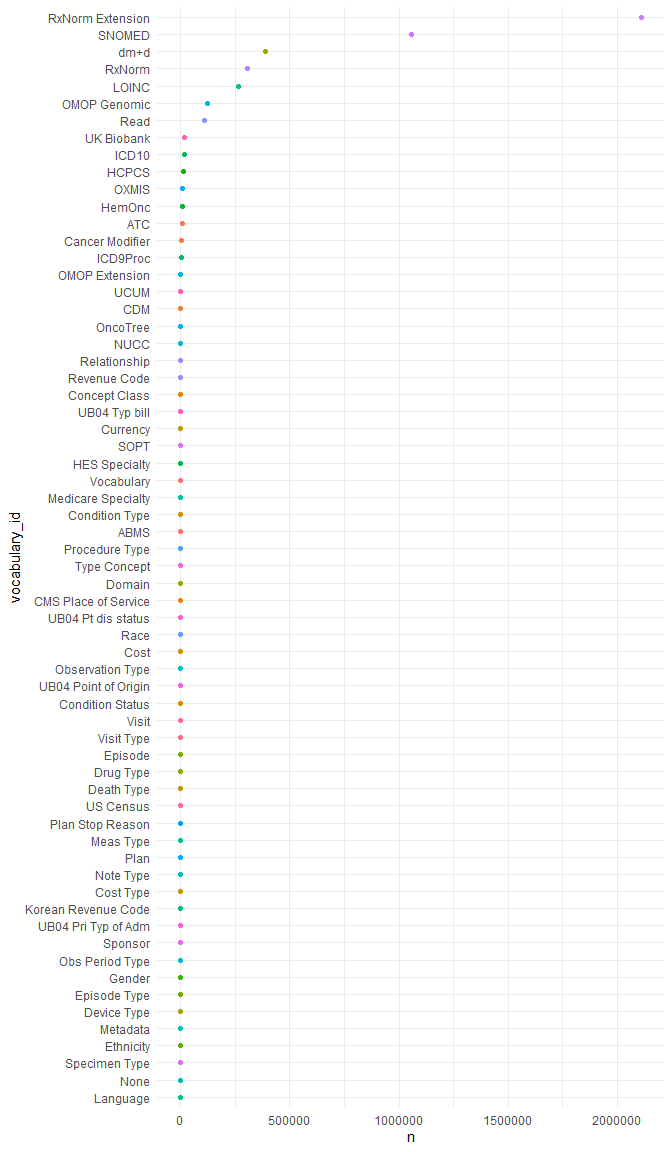
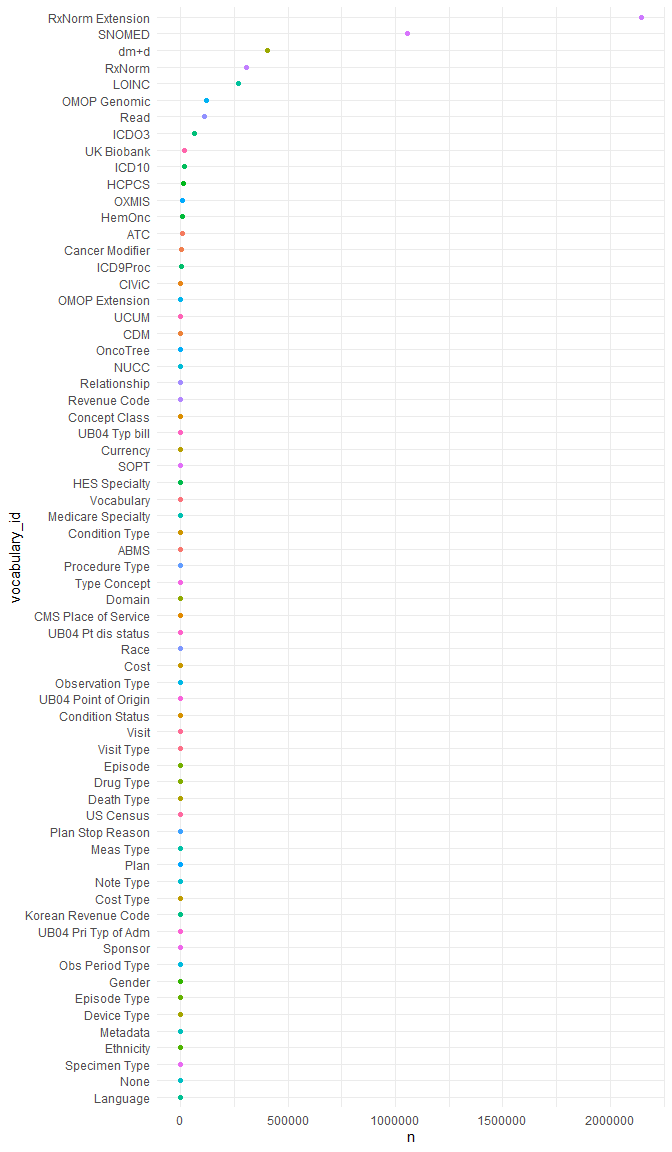
update readme partic about vocab data options

diff --git a/README.md b/README.md
@@ -7,14 +7,26 @@
 <!-- badges: start -->
 <!-- badges: end -->
 
-**Warning: under active development 2023-09, breaking changes possible**
+**Active development 2024, breaking changes possible**
 
-omopcept provides access to a subset of **OMOP** con**CEPT**s (without
-the cons!) and flexible tidyverse compatible R functions for querying.
-It includes concise named copies of functions designed for interactive
-use e.g. `oid()` and `onames()` to search concept ids and names
-respectively. For example the line below can be used to return all \~
-1000 OMOP ids for SNOMED codes for clinical drugs starting with A.
+**omopcept** provides access to **OMOP** *con***CEPT***s* (without the
+*cons*!).
+
+Initial motivation was to make it super-easy to get the names associated
+with concept IDs.  
+Later additions allow exploration and visualisation of OMOP hierarchies.
+
+**omopcept** provides R functions that are :
+
+- modern
+- flexible
+- tidyverse compatible
+- memory efficient (using arrow parquet)
+
+**omopcept** includes concise named copies of functions designed for
+interactive use e.g. `oid()` and `onames()` to search concept ids and
+names respectively. For example the line below can be used to return all
+\~ 1000 OMOP ids for SNOMED codes for clinical drugs starting with A.
 
     onames("^a",d="DRUG",v="SNOMED",cc="Clinical Drug")
 
@@ -28,13 +40,22 @@ Install the development version of omopcept with:
 remotes::install_github("andysouth/omopcept")
 ```
 
+## OMOP vocabularies data
+
+OMOP vocabularies can be searched and downloaded from [Athena – the
+OHDSI vocabularies repository](https://athena.ohdsi.org). **omopcept**
+provides R tools to interact with OMOP concepts in a more reproducible
+way.
+
+**omopcept** can use vocabulary files that you have downloaded from
+Athena, or automatically download a subset of the vocabularies that we
+have saved in the cloud.
+
 ## Getting started with omopcept
 
-On initial use omopcept downloads a
-[parquet](https://parquet.apache.org/) file containing the concepts to a
-local package cache where it can be accessed in future sessions. On use
-it opens the file (with omop_concept()) but doesn’t read in the data to
-save time. The [arrow R
+On initial use omopcept tries to download OMOP vocabulary files from the
+cloud to a local package cache where it can be accessed in future
+sessions. The [arrow R
 package](https://arrow.apache.org/docs/r/index.html) allows parquet
 files to be opened and queried in dplyr pipelines without having to read
 in the data. e.g. the code below will return just the top rows of the
@@ -67,7 +88,7 @@ omop_concept() |>
 | `omop_concept_ancestor()`     | `oca()`                | return reference to concept ancestor table                                                     |
 | `omop_concept_relationship()` | `ocr()`                | return reference to concept relationship table                                                 |
 
-## OMOP background
+## OMOP outline
 
 The [OMOP Common Data Model](https://ohdsi.github.io/CommonDataModel/)
 is an open standard for health data. “\[It is\] designed to standardize
@@ -77,26 +98,28 @@ analyses that can produce reliable evidence”.
 OMOP is maintained by OHDSI (pronounced “Odyssey”). “The Observational
 Health Data Sciences and Informatics program is a multi-stakeholder,
 interdisciplinary collaborative that strives to improve medical decision
-making and bring better health outcomes to patients around the world.”  
-OMOP concepts can be searched and downloaded from [Athena – the OHDSI
-vocabularies repository](https://athena.ohdsi.org). This package
-provides R tools to interact with the concepts in a more reproducible
-way.
+making and bring better health outcomes to patients around the world.”
 
-## Concept data
+## OMOP vocabularies in the background
 
-OMOP vocab data downloaded from Athena includes a tables called
-CONCEPT.csv, CONCEPT_ANCESTOR.csv and CONCEPT_RELATIONSHIP.csv that we
-saved in parquet format for use in this package.
+Vocabularies downloaded from Athena include tables called CONCEPT.csv,
+CONCEPT_ANCESTOR.csv and CONCEPT_RELATIONSHIP.csv.
+
+You have two main options :
+
+1.  manually download selected vocabulary csv files from Athena, use
+    `omopcept::omop_vocabs_preprocess()`
+
+2.  automatically download pre-processed vocabulary files saved in the
+    cloud by us
 
 omopcept downloads a selection of vocabularies and stores them locally
 the first time you use it (in the recommended data location for R
 packages). The download does not need to be repeated until you update
-the package.
-
-We plan to allow the location of the concept files to be specified so
-that in a future version users could point it to their own downloaded
-files.
+the package. Vocabularies are stored as
+[parquet](https://parquet.apache.org/) files that can be queried in a
+memory-efficient manner without having to first read the data in to
+memory.
 
 | fields           | about                               | query_arguments |
 |:-----------------|:------------------------------------|:----------------|
@@ -187,10 +210,12 @@ data.frame(concept_id=(c(3571338L,3655355L)),
 
 ## Vocabularies included
 
-The vocabularies are a default download from Athena with a few extra
-vocabs added. Later we may offer option to add other vocabularies.
+The vocabularies that omopcept downloads automatically are a default
+download from Athena with a few extra vocabs added. If you wish to
+control which vocabularies are included you can manually download
+vocabulary csv files from Athena.
 
-### Numbers of concepts in the package by domain and vocabulary
+### Numbers of concepts in automatic **omopcept** vocabulary download by domain and vocabulary
 
 ``` r
 library(dplyr)
